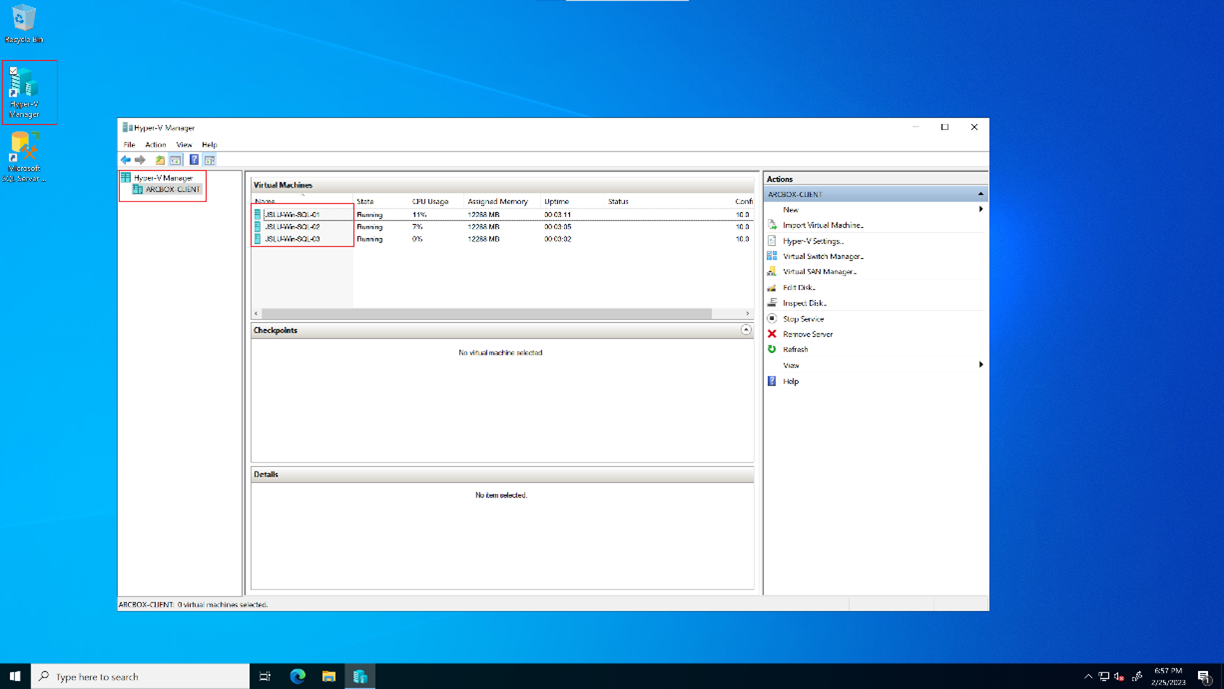
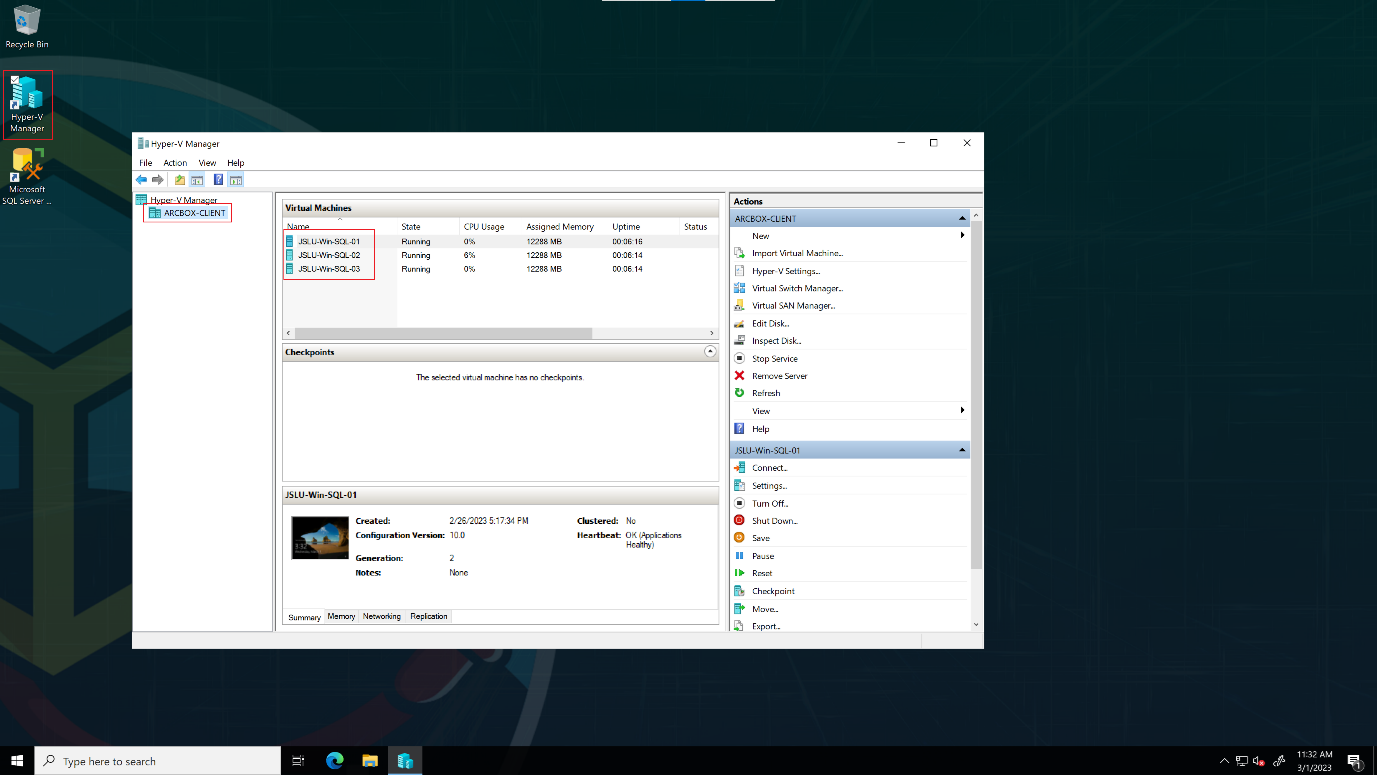
Crated README file

diff --git a/docs/azure_arc_jumpstart/azure_arc_sqlsrv/levelup/_index.md b/docs/azure_arc_jumpstart/azure_arc_sqlsrv/levelup/_index.md
@@ -6,13 +6,42 @@ The following README will guide you on how to automatically deploy an ArcBox for
 
 ArcBox LevelUp edition is a special “flavor” of ArcBox that is intended for users who want to experience Azure Arc enabled SQL servers’ capabilities in a sandbox environment. Screenshot below shows layout of the lab environment.
 
-> **Note: It is not expected for an Azure VM to be projected as an Azure Arc-enabled server. The below scenario is unsupported and should ONLY be used for demo and testing purposes.**
+Following guest VMs will be deployed in this lab environment to use in different modules.
+
+|VM Name |Windows version|SQL Server version|Purpose|Initial State|
+|-------|-------|-------|-------|-------|
+|JSLU-Win-SQL-01|Windows 2016| SQL Server 2016 |Used in lab module 1|Not on-boarded to Azure Arc|
+|JSLU-Win-SQL-02|Windows 2019| SQL Server 2019 |Used in lab module 3|On-boarded to Azure Arc as connected machine|
+|JSLU-Win-SQL-03|Windows 2022| SQL Server 2022 |Used in lab module 3|On-boarded to Azure Arc as connected machine|
+
+> **Note: It is not expected for an Azure VM to be projected as an Azure Arc-enabled server. Instead Hyper-V server on Azure VM is deployed and setup SQL Server guest VMs on Hyper-V for these labs. The below scenario is unsupported and should ONLY be used for demo and testing purposes.**
 
 ## Task 1: Setup prerequisites
 
 Please also refer to the prerequisites section of the Azure Arc Jumpstart scenario upon which this LevelUp session is based here.
 
-1. vCPU Cores: ArcBox requires 16 DSv5-series vCPUs when deploying with default parameters such as VM series/size. Ensure you have sufficient vCPU quota available in your Azure subscription and the region where you plan to deploy ArcBox. You can use the Azure CLI command below to check your vCPU utilization.
+1. **Supported Regions:** Arc-enabled SQL Server is supported in the following Azure regions. Deploy this lab environment only in one of these supported regions.
+
+    - East US
+    - East US 2
+    - West US
+    - West US 2
+    - West US 3
+    - Central US
+    - North Central US
+    - South Central US
+    - Canada Central
+    - UK South
+    - France Central
+    - West Europe
+    - North Europe
+    - Japan East
+    - Korea Central
+    - East Asia
+    - Southeast Asia
+    - Australia East
+
+2. **vCPU Cores:** ArcBox requires 16 DSv5-series vCPUs when deploying with default parameters such as VM series/size. Ensure you have sufficient vCPU quota available in your Azure subscription and the region where you plan to deploy ArcBox. You can use the Azure CLI command below to check your vCPU utilization.
 
   ```shell
   az vm list-usage –location <Your preferred Azure region>
@@ -23,7 +52,7 @@ Please also refer to the prerequisites section of the Azure Arc Jumpstart scenar
 
   ![Azure VM Usage](list-azure-usage.png)
 
-2. AZ CLI Version: Install or update Azure CLI to version 2.42.0 and above. Verify with `az --version`
+2. **AZ CLI Version:** Install or update Azure CLI to version 2.42.0 and above. Verify with `az --version`
 
   ```shell
   az --version
@@ -31,9 +60,15 @@ Please also refer to the prerequisites section of the Azure Arc Jumpstart scenar
 
   ![AZ CLI Version](az-cli-version-check.png)
 
-3. Azure Arc Git Repository or Azure Portal: Clone the repository using `git clone https://github.com/microsoft/azure_arc.git`. Alternatively, you can deploy using Azure Portal using the deployment URL in the instructions in this module.
+4. **Azure Arc Git Repository (Optional):** You can deploy LevelUp this lab environment through Azure Portal using the the instructions in this module. Alternatively you can clone the Azure Arc Git repository using `git clone https://github.com/microsoft/azure_arc.git`. For CLI deployment follow instructions in deployment Option 2 under Task 2 in this lab guide.
 
-4. Azure AD Service Principal and Secret: A service principal with owner role on your subscription, which can be created with:
+  ```shell
+  git clone -b lu_arc_sql https://github.com/microsoft/azure_arc.git
+  ```
+
+  ![Git clone Azure Arc repository](git-clone-lu-arc-sql.png)
+
+5. **Azure AD Service Principal and Secret:** A service principal with **Owner** role on your subscription, which can be created using commands below using PowerShell or CloudShell:
 
   ```shell
   $subscriptionId = "<Your subscription id>"
@@ -44,18 +79,18 @@ Please also refer to the prerequisites section of the Azure Arc Jumpstart scenar
   az ad sp create-for-rbac -n $servicePrincipalName --role "Owner" --scopes /subscriptions/$subscriptionId
   ```
 
-  > **Note**: If you can’t use Owner role please make sure to assign Contributor and User Access Administrator roles to the service principal using below commands.
+  > **Note**: If you can’t use Owner role please make sure to assign **Contributor** and User **Access Administrator** roles to the service principal using below commands.
 
   ```shell
   az ad sp create-for-rbac -n $servicePrincipalName --role "Contributor" --scopes /subscriptions/$subscriptionId
   az ad sp create-for-rbac -n $servicePrincipalName --role "User Access Administrator" --scopes /subscriptions/$subscriptionId
   ```
 
-5. Once you run above commands output should look like below.
+  Once you run above commands output should look like below.
 
   ![Create SPN with RBAC](create-spn-with-rbac.png)
 
-6. From the output of the last command, make note of the *appId, password, and tenant* values as shown in the screenshot to use in the LevelUp deployment.
+7. **Client ID and Secret:** From the output of the last command, make note of the **appId, password, and tenant** values as shown in the screenshot to use in the LevelUp deployment.
 
 ## Task 2: Deploy LevelUp lab environment
 
@@ -149,7 +184,7 @@ Please also refer to the prerequisites section of the Azure Arc Jumpstart scenar
 
   ![Deploy ARM template](azure-arm-group-deploy.png)
 
-6. Monitor deployment progress and to go Task 3 once deployment is complete. This deployment takes around 15 minutes to complete.
+7. Monitor deployment progress and to go Task 3 once deployment is complete. This deployment takes around 15 minutes to complete.
 
   ![Monitor ARM deployment progress](azure-arm-group-deployment-complete.png)
 
@@ -238,6 +273,8 @@ Use the following steps if you are not using Just-in-time access. Skip to sectio
 
   ![ArcBox client logon script Arc server onboarding](arcbox-client-logn-script-progress-arc-server.png)
 
+  ![ArcBox client desktop](arcbox-client-desktop.png)
+
 6. Once the logon script execution is complete, click on **Hyper-V Manager** icon on the desktop to see nested SQL Server VMs setup for the labs.
 
   ![ArcBox client logon script complete](arcbox-client-logn-script-complete.png)
@@ -265,9 +302,9 @@ Use the following steps if you are not using Just-in-time access. Skip to sectio
 
   ![ArcBox client VM bastion launch logon script](arcbox-client-bastion-logon-script-launch.png)
 
-  ![ArcBox client VM bastion launch logon script](arcbox-client-bastion-logon-script-progress.png)
-
   ![ArcBox client VM bastion launch logon script](arcbox-client-bastion-logon-script-progress-arc-servers.png)
+
+  ![ArcBox client VM bastion launch logon script](arcbox-client-bastion-desktop.png)
 
 6. Once the logon script execution is complete, click on **Hyper-V Manager** icon on the desktop to see nested SQL Server VMs setup for the labs.
 
